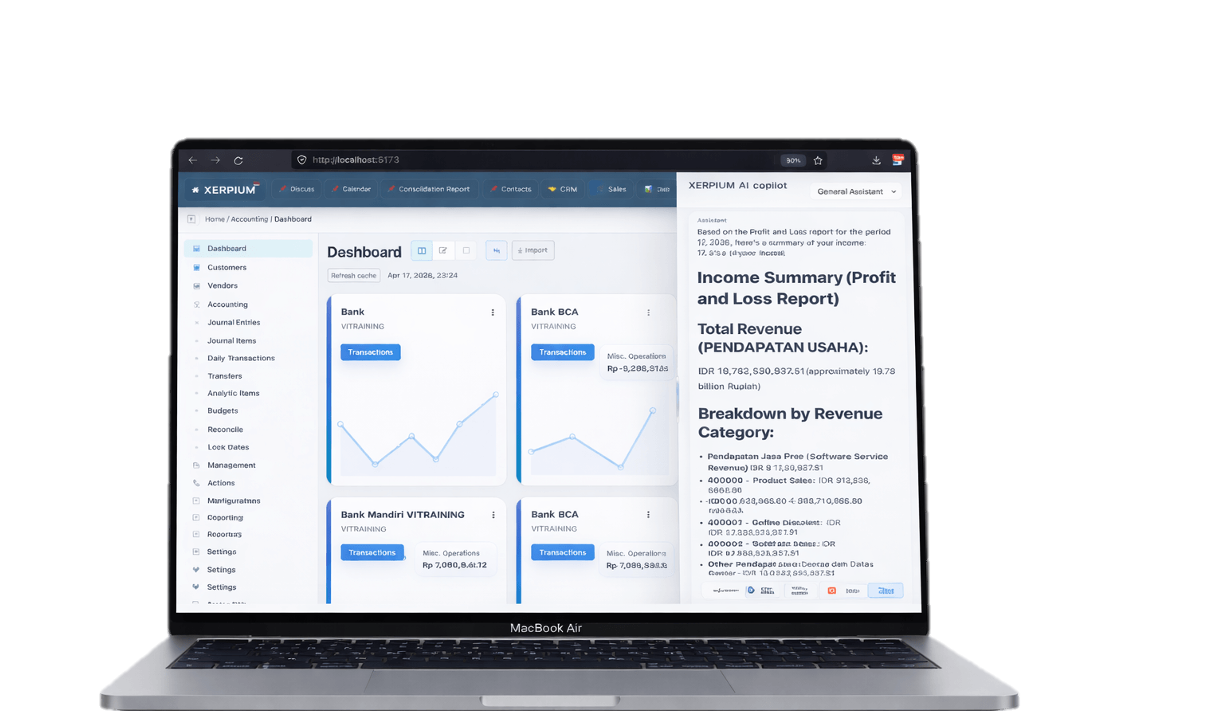
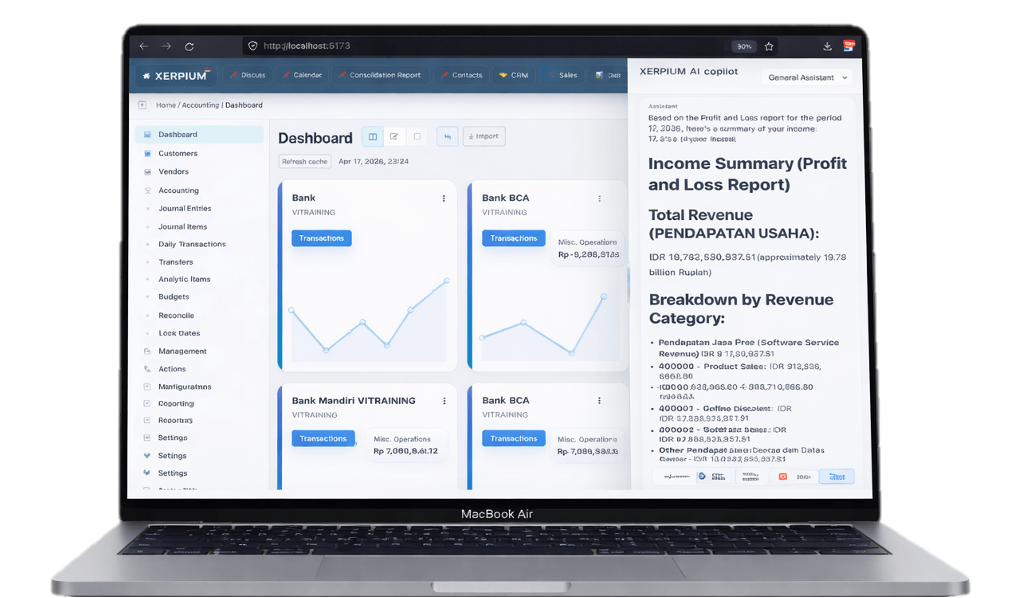
img

diff --git a/index.html b/index.html
@@ -182,23 +182,14 @@
         </section>
 
         <section class="punch-section" aria-label="Xerpium product showcase">
-          <div class="section-heading">
-            <p class="eyebrow">AI Showcase</p>
-            <h2>Lihat AI assistant Xerpium bekerja langsung di dalam flow operasional.</h2>
-            <p>
-              Selain reporting yang kuat di hero utama, tampilan ini menunjukkan
-              bagaimana AI assistant menyatu dalam dashboard dan membantu membaca
-              data bisnis secara praktis.
-            </p>
-          </div>
-
           <div class="punch-grid punch-grid-single">
             <figure class="punch-card punch-card-front">
-              <img src="./images/xerpium-punch-ai.png" alt="Xerpium dashboard with AI copilot and financial summary panel on laptop" />
               <figcaption>
-                <strong>AI assistant yang hadir di workflow harian</strong>
-                <span>Insight, analisis, dan operasional harian hadir dalam satu flow kerja yang praktis.</span>
+                <p class="punch-badge">AI Showcase</p>
+                <strong>Lihat AI assistant Xerpium bekerja langsung di dalam flow operasional.</strong>
+                <span>Selain reporting yang kuat di hero utama, tampilan ini menunjukkan bagaimana AI assistant menyatu dalam dashboard dan membantu membaca data bisnis secara praktis.</span>
               </figcaption>
+              <img src="./images/xerpium-punch-ai.png" alt="Xerpium dashboard with AI copilot and financial summary panel on laptop" />
             </figure>
           </div>
         </section>

diff --git a/styles.css b/styles.css
@@ -621,6 +621,10 @@ h3 {
 .punch-card {
   margin: 0;
   padding: 22px;
+  display: grid;
+  grid-template-columns: minmax(280px, 0.8fr) minmax(0, 1.2fr);
+  gap: 24px;
+  align-items: center;
   border-radius: 30px;
   border: 1px solid rgba(215, 225, 236, 0.82);
   background:
@@ -638,7 +642,23 @@ h3 {
 }
 
 .punch-card figcaption {
-  margin-top: 18px;
+  min-width: 0;
+}
+
+.punch-badge {
+  display: inline-flex;
+  align-items: center;
+  min-height: 32px;
+  margin: 0 0 16px;
+  padding: 0 12px;
+  border-radius: 999px;
+  color: var(--accent-strong);
+  background: rgba(221, 246, 248, 0.96);
+  border: 1px solid rgba(14, 165, 168, 0.18);
+  font-size: 0.82rem;
+  font-weight: 700;
+  letter-spacing: 0.08em;
+  text-transform: uppercase;
 }
 
 .punch-card strong {
@@ -878,6 +898,10 @@ h3 {
   }
 
   .panel-layout {
+    grid-template-columns: 1fr;
+  }
+
+  .punch-card {
     grid-template-columns: 1fr;
   }
 }
